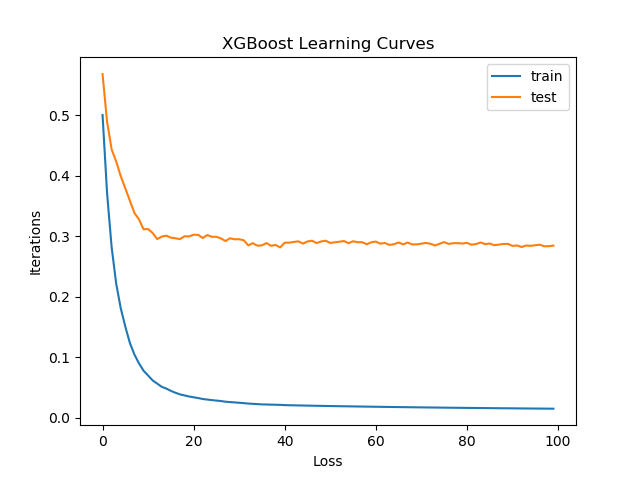
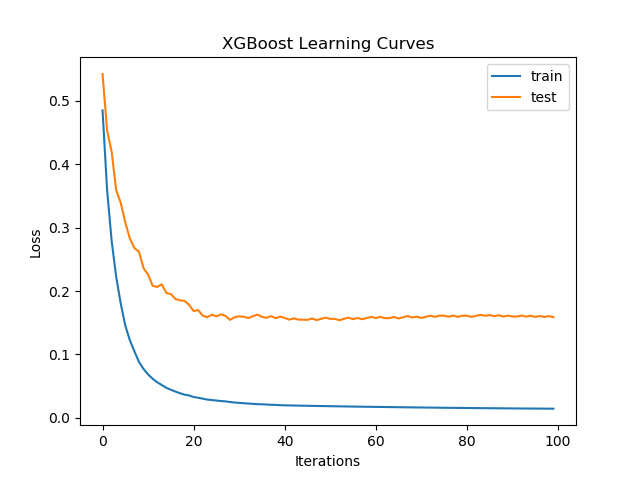
fixed typo

diff --git a/main.py b/main.py
@@ -74,7 +74,7 @@ class Model:
         '''
         evalset = [(self.x_train, self.y_train), (self.x_test,self.y_test)]
 
-        self.model = XGBClassifier(use_label_encoder=False, eval_metric='logloss', n_estimators=500)
+        self.model = XGBClassifier(use_label_encoder=False, eval_metric='logloss', n_estimators=100)
         self.model.fit(self.x_train, self.y_train,eval_set=evalset)
         self.y_pred = self.model.predict(self.x_test)
         self.accuracy = accuracy_score(self.y_test,self.y_pred)*100
@@ -86,8 +86,8 @@ class Model:
         fig1 = plt.figure()
         plt.plot(loss['validation_0']['logloss'], label='train')
         plt.plot(loss['validation_1']['logloss'], label='test')
-        plt.xlabel('Loss')
-        plt.ylabel('Iterations')
+        plt.ylabel('Loss')
+        plt.xlabel('Iterations')
         plt.title('XGBoost Learning Curves')
         plt.legend()
         plt.show()
